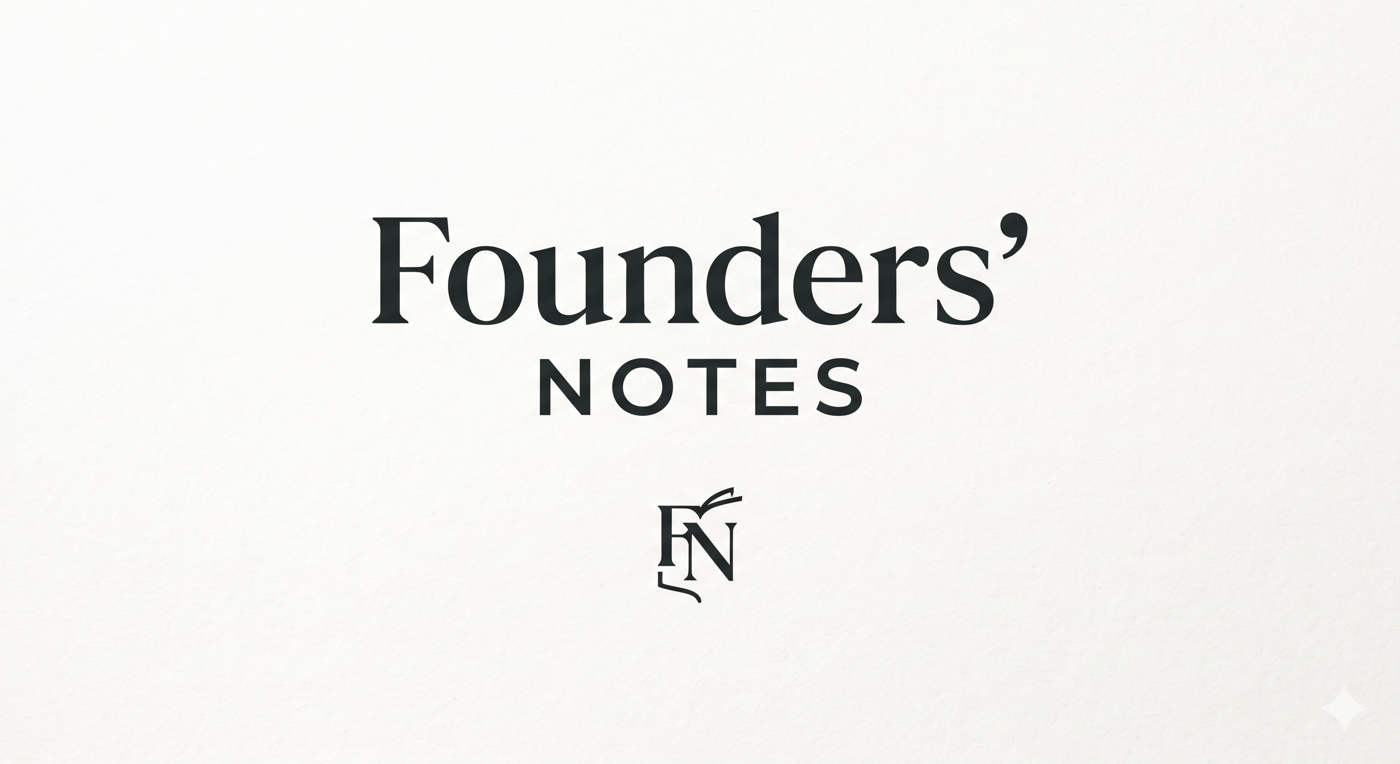
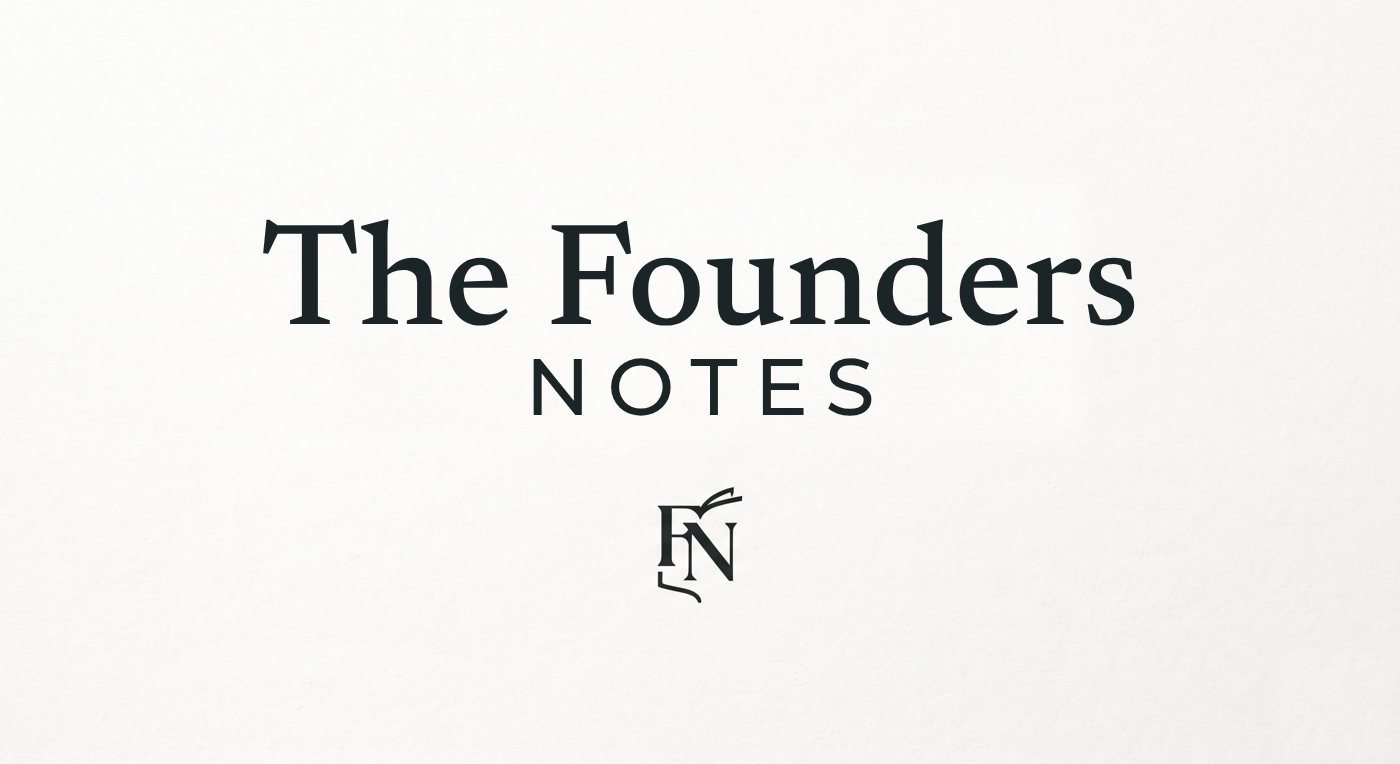
Rename to The Founders Notes

Changed region(s): [[0.1843, 0.2709, 0.8293, 0.4516], [0.3686, 0.4516, 0.645, 0.5419]]

diff --git a/data/content.js b/data/content.js
@@ -76,27 +76,27 @@ const TESTIMONIALS = [];
    Story pages build their own from the story (name, business, place and summary). */
 const SEO = {
   home: {
-    title: "Founders\u2019 Notes: free stories about independent wellness founders",
+    title: "The Founders Notes: free stories about independent wellness founders",
     description: "Free, founder-approved stories about independent yoga, Pilates, martial arts and wellness business owners around the world. Read their journeys or get featured."
   },
   stories: {
-    title: "Founder stories: yoga, Pilates and wellness | Founders\u2019 Notes",
+    title: "Founder stories: yoga, Pilates and wellness | The Founders Notes",
     description: "Read how independent yoga teachers, studio owners and wellness founders started, what was hard, and what a normal week looks like. Every story is approved by the founder."
   },
   about: {
-    title: "About Founders\u2019 Notes | Free stories for independent founders",
-    description: "Founders\u2019 Notes is a small, independent publication that writes warm, plain-spoken stories about founders. Learn how it works and what we stand for."
+    title: "About The Founders Notes | Free stories for independent founders",
+    description: "The Founders Notes is a small, independent publication that writes warm, plain-spoken stories about founders. Learn how it works and what we stand for."
   },
   "get-featured": {
-    title: "Get featured for free | Founders\u2019 Notes",
-    description: "How to share your story with Founders\u2019 Notes: a 20-minute chat, a draft you approve, and a free story page with a badge and quote cards. Common questions answered."
+    title: "Get featured for free | The Founders Notes",
+    description: "How to share your story with The Founders Notes: a 20-minute chat, a draft you approve, and a free story page with a badge and quote cards. Common questions answered."
   },
   services: {
-    title: "Website design for yoga and wellness studios | Founders\u2019 Notes",
+    title: "Website design for yoga and wellness studios | The Founders Notes",
     description: "Simple, clear websites for studios, teachers and independent class businesses: link-in-bio pages, starter sites and care plans. Ask for a quote or a free mini audit."
   },
   contact: {
-    title: "Contact Founders\u2019 Notes | Book a call or send a message",
+    title: "Contact The Founders Notes | Book a call or send a message",
     description: "Book a 20-minute call, send a message, or write by email or WhatsApp to share your story, nominate a founder or ask about a website."
   }
 };

diff --git a/index.html b/index.html
@@ -6,12 +6,12 @@
   <meta name="viewport" content="width=device-width, initial-scale=1, viewport-fit=cover">
   <meta name="color-scheme" content="light">
   <script>try { var t = localStorage.getItem("theme"); if (t === "light" || t === "dark") document.documentElement.setAttribute("data-theme", t) } catch (e) { }</script>
-  <title>Founders’ Notes — Free stories for independent founders</title>
+  <title>The Founders Notes — Free stories for independent founders</title>
   <meta name="description"
     content="Free success stories about independent founders worldwide: yoga and Pilates teachers, studio owners, martial arts and fitness instructors.">
   <meta property="og:type" content="website">
-  <meta property="og:site_name" content="Founders’ Notes">
-  <meta property="og:title" content="Founders’ Notes — Free stories for independent founders">
+  <meta property="og:site_name" content="The Founders Notes">
+  <meta property="og:title" content="The Founders Notes — Free stories for independent founders">
   <meta property="og:description" content="Free success stories about independent founders worldwide: yoga and Pilates teachers, studio owners, martial arts and fitness instructors.">
   <meta name="twitter:card" content="summary_large_image">
   <link rel="icon" href="/favicon.ico" sizes="48x48">

diff --git a/js/app.js b/js/app.js
@@ -1,4 +1,4 @@
-/* Founders’ Notes: rendering code. Content lives in /data, so you should not need to edit this file. */
+/* The Founders Notes: rendering code. Content lives in /data, so you should not need to edit this file. */
 
 const esc = s => String(s).replace(/[&<>"']/g, c => ({ '&': '&amp;', '<': '&lt;', '>': '&gt;', '"': '&quot;', "'": '&#39;' }[c]));
 const $ = (sel, root = document) => root.querySelector(sel);
@@ -421,7 +421,7 @@ document.addEventListener('click', e => {
 
 /* ---------- Pages: every page is a real address (/about/, /stories/name/ ...) ---------- */
 let curPage = 'home';
-const PAGE_H1 = { stories: 'All founder stories', about: 'About Founders\u2019 Notes', 'get-featured': 'Get featured on Founders\u2019 Notes for free', services: 'Website design for yoga and wellness studios', contact: 'Contact Founders\u2019 Notes' };
+const PAGE_H1 = { stories: 'All founder stories', about: 'About The Founders Notes', 'get-featured': 'Get featured on The Founders Notes for free', services: 'Website design for yoga and wellness studios', contact: 'Contact The Founders Notes' };
 function showPage(r) {
   const p = r.page; curPage = p;
   $$('[data-pages]').forEach(el => el.classList.toggle('pg-off', !el.dataset.pages.split(' ').includes(p)));

diff --git a/privacy.html b/privacy.html
@@ -6,8 +6,8 @@
   <meta name="viewport" content="width=device-width, initial-scale=1, viewport-fit=cover">
   <meta name="color-scheme" content="light">
   <script>try { var t = localStorage.getItem("theme"); if (t === "light" || t === "dark") document.documentElement.setAttribute("data-theme", t) } catch (e) { }</script>
-  <title>Privacy — Founders’ Notes</title>
-  <meta name="description" content="How Founders’ Notes handles your information: what is collected, who sees it and how to ask for changes.">
+  <title>Privacy — The Founders Notes</title>
+  <meta name="description" content="How The Founders Notes handles your information: what is collected, who sees it and how to ask for changes.">
   <link rel="canonical" href="https://thefoundersnotes.com/privacy.html">
   <link rel="icon" href="/favicon.ico" sizes="48x48">
   <link rel="icon" type="image/png" sizes="48x48" href="/assets/favicon-48.png">

diff --git a/404.html b/404.html
@@ -6,7 +6,7 @@
   <meta name="viewport" content="width=device-width, initial-scale=1, viewport-fit=cover">
   <meta name="color-scheme" content="light">
   <script>try { var t = localStorage.getItem("theme"); if (t === "light" || t === "dark") document.documentElement.setAttribute("data-theme", t) } catch (e) { }</script>
-  <title>Page not found — Founders’ Notes</title>
+  <title>Page not found — The Founders Notes</title>
   <meta name="description" content="This page could not be found.">
   <meta name="robots" content="noindex">
   <link rel="icon" href="/favicon.ico" sizes="48x48">

diff --git a/js/features.js b/js/features.js
@@ -1,4 +1,4 @@
-/* Founders’ Notes: extra features.
+/* The Founders Notes: extra features.
    Filters, story tools (listen, share, quote cards, badge, translations, video/audio), FAQ, nominations,
    packages, audit offer, testimonials, newsletter, analytics, link-preview tags.
    Loaded BEFORE app.js; app.js calls initFeatures() and enhanceStory(). Content lives in /data. */

diff --git a/css/features.css b/css/features.css
@@ -1,4 +1,4 @@
-/* Founders’ Notes: styles for the extra features (filters, story tools, FAQ, packages, newsletter...). Uses the colours from styles.css. */
+/* The Founders Notes: styles for the extra features (filters, story tools, FAQ, packages, newsletter...). Uses the colours from styles.css. */
 
 .btn-sm { padding: .55rem .9rem; font-size: .9rem; min-height: 40px }
 

diff --git a/js/page.js b/js/page.js
@@ -1,4 +1,4 @@
-/* Founders’ Notes: small script for the static pages (privacy.html, 404.html).
+/* The Founders Notes: small script for the static pages (privacy.html, 404.html).
    Fills in the name, email link and year from data/config.js. */
 (function () {
   var all = function (s) { return Array.prototype.slice.call(document.querySelectorAll(s)); };

diff --git a/data/config.js b/data/config.js
@@ -4,7 +4,7 @@
    ============================================================================ */
 
 const CONFIG = {
-  brand: "Founders’ Notes",
+  brand: "The Founders Notes",
   owner: "Pranav Khandelwal",
   email: "foundersnotes09@gmail.com",
   instagram: "@the.founders_notes",                 // e.g. "@foundersnotes"

diff --git a/build.js b/build.js
@@ -1,5 +1,5 @@
 #!/usr/bin/env node
-/* Founders' Notes: build script.
+/* The Founders Notes: build script.
 
    What it does (you never need to run it by hand: GitHub does it every time you push):
    1. Reads data/config.js, data/content.js and data/stories.js.

diff --git a/css/styles.css b/css/styles.css
@@ -1,4 +1,4 @@
-/* Founders’ Notes: styles
+/* The Founders Notes: styles
    Sections, in order:
     1. Tokens
     2. Base

diff --git a/docs/HOW-TO.md b/docs/HOW-TO.md
@@ -1,4 +1,4 @@
-# How to launch and run Founders’ Notes
+# How to launch and run The Founders Notes
 
 The project is a small folder of plain files. You edit text files in any plain-text editor (VS Code, Notepad, TextEdit set to plain text) and preview by double-clicking `index.html`, which opens in your browser. Fonts load from the internet, so be online.
 
@@ -23,7 +23,7 @@ Open `data/config.js`:
 
 ```js
 const CONFIG = {
-  brand: "Founders’ Notes",
+  brand: "The Founders Notes",
   owner: "Pranav Khandelwal",             // shown in "By ..." on every story and in the footer
   email: "foundersnotes09@gmail.com",
   instagram: "@the.founders_notes",       // your handle, with the @
@@ -38,7 +38,7 @@ Check these values before you go live (only `calendly` is still a placeholder):
 
 - **`owner`**: your name. It appears in the About section, footer and story bylines.
 - **`instagram`**: your handle, with the @. The Instagram links go to `instagram.com/yourhandle`.
-- **`whatsapp`**: your number with the country code. The WhatsApp links open a chat with a pre-written "Hi, I found you through Founders’ Notes" message.
+- **`whatsapp`**: your number with the country code. The WhatsApp links open a chat with a pre-written "Hi, I found you through The Founders Notes" message.
 - **`calendly`**: your booking link. To get one: create a free Calendly account, make an event called "20-minute chat", and copy its link. Every "Book a call" button on the site opens it in a new tab, and Calendly shows each visitor times in their own time zone, which suits a worldwide audience.
 
 Until the Calendly link and Instagram handle are set, their buttons just scroll to the Get in touch section. Until the WhatsApp number is set, its link opens an email instead.
@@ -178,7 +178,7 @@ See `docs/FOUNDER-TOOLKIT.md` for outreach templates, the approval record, and t
 
 **Finding founders.** Because you work remotely, you can feature anyone, anywhere. Find yoga and Pilates teachers, studio owners, martial arts and fitness instructors, and other independent founders on Instagram and Google Maps. Message them with something short like:
 
-> Hi [name], I'm [your name]. I run Founders’ Notes, a small publication that writes free stories about independent founders. I'd love to feature [business]. It's a 20-minute video chat, you approve everything before it goes live, and it costs nothing. Here's a link to book a time: [your Calendly link]
+> Hi [name], I'm [your name]. I run The Founders Notes, a small publication that writes free stories about independent founders. I'd love to feature [business]. It's a 20-minute video chat, you approve everything before it goes live, and it costs nothing. Here's a link to book a time: [your Calendly link]
 
 **The 20-minute chat (on video, booked through Calendly). Questions to ask:**
 
@@ -193,7 +193,7 @@ See `docs/FOUNDER-TOOLKIT.md` for outreach templates, the approval record, and t
 
 **Writing it.** Four short paragraphs in plain, warm language. Use only what the owner told you. Keep quotes word for word. Do not invent numbers, awards, results or "best in town" claims. For yoga, fitness and beauty, avoid health promises such as "cures" or "guaranteed results".
 
-**Written approval (important).** Send the full draft before publishing. Do not publish until the owner replies in writing, by email or message, something like "I approve this story for publication on Founders’ Notes." Save that message. Ask separately for permission to use their name, location and Instagram handle. If you change anything after they approve, send it again.
+**Written approval (important).** Send the full draft before publishing. Do not publish until the owner replies in writing, by email or message, something like "I approve this story for publication on The Founders Notes." Save that message. Ask separately for permission to use their name, location and Instagram handle. If you change anything after they approve, send it again.
 
 **Publishing.** Add the story (section 2), upload the site (section 4), send the owner the link and tag them on Instagram. If an owner later asks you to remove or change their story, do it promptly.
 
@@ -206,7 +206,7 @@ See `docs/FOUNDER-TOOLKIT.md` for outreach templates, the approval record, and t
 1. Upload the whole project folder as it is: `index.html` must stay at the top, next to the `css`, `js`, `data`, `images` and `assets` folders.
 2. Pick a host. Free options that work well for a static site include Netlify (drag and drop the folder), Cloudflare Pages and GitHub Pages. Any ordinary web host also works: upload the folder contents. You can leave out `docs`, `README.md` and `assets/brand`.
 3. Buy a domain from a registrar such as Cloudflare, Namecheap or Porkbun. A `.com` is best for a worldwide audience. Connect it to your host using the host's "custom domain" steps.
-4. Check the name before you commit: domain, Instagram handle, your local business register, and a trademark search (for example USPTO, UK IPO or your country's equivalent). "Founders’ Notes" is a fairly natural phrase, so make sure no one near your market already uses it.
+4. Check the name before you commit: domain, Instagram handle, your local business register, and a trademark search (for example USPTO, UK IPO or your country's equivalent). "The Founders Notes" is a fairly natural phrase, so make sure no one near your market already uses it.
 5. When you edit later, upload the changed files over the old ones (usually just `data/stories.js` and a new photo in `images`).
 
 **How the contact options work**
